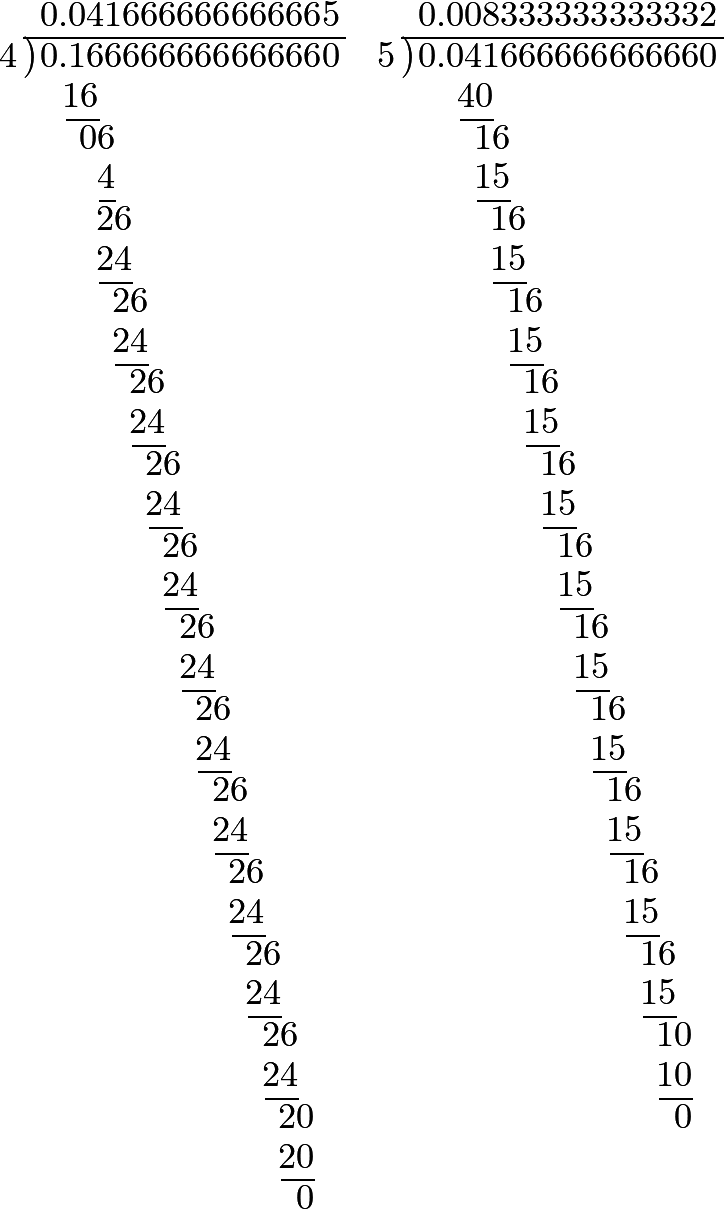
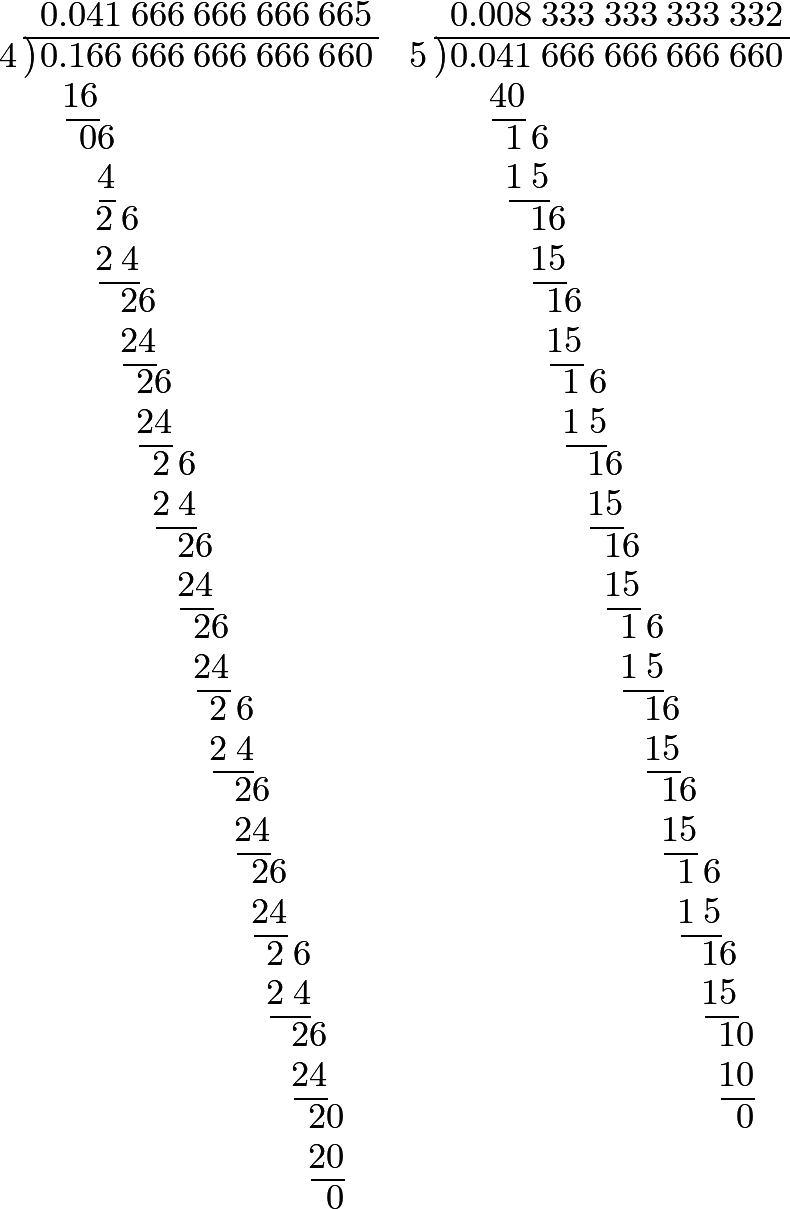
longdivision
separators in work = true, digit group length = 3, digit separator = {\:}

Changed region(s): [[0.5166, 0.0, 1.0, 0.9181], [0.0, 0.0, 0.4862, 0.4285], [0.2431, 0.4285, 0.4558, 1.0]]

diff --git a/_euler/.ipynb_checkpoints/euler-algebra-III-12-checkpoint.md b/_euler/.ipynb_checkpoints/euler-algebra-III-12-checkpoint.md
@@ -259,15 +259,15 @@ $$\dfrac{1}{1\cdot 2\cdot 3\cdot 4\cdot 5\cdot 6\cdot 7\cdot 8\cdot 9\cdot 10},$
 to a decimal. The operation would be as follows:
 
 <a href="https://artofproblemsolving.com/texer/eqzaigab">
-<img src="/assets/euler/eqzaigab.png" alt="Dividing by 2 then by 3" width="494" height="907" style="display:block;margin-left:auto;margin-right:auto;">
+<img src="/assets/euler/eqzaigab.png" alt="Dividing by 2 then by 3" width="547" height="907" style="display:block;margin-left:auto;margin-right:auto;">
 </a>
 
 <a href="https://artofproblemsolving.com/texer/bctsglel">
-<img src="/assets/euler/bctsglel.png" alt="Dividing by 4 then by 5" width="507" height="846" style="display:block;margin-left:auto;margin-right:auto;">
+<img src="/assets/euler/bctsglel.png" alt="Dividing by 4 then by 5" width="553" height="846" style="display:block;margin-left:auto;margin-right:auto;">
 </a>
 
 <a href="https://artofproblemsolving.com/texer/hjfwyspf">
-<img src="/assets/euler/hjfwyspf.png" alt="Dividing by 6 then by 7" width="584" height="1021" style="display:block;margin-left:auto;margin-right:auto;">
+<img src="/assets/euler/hjfwyspf.png" alt="Dividing by 6 then by 7" width="554" height="875" style="display:block;margin-left:auto;margin-right:auto;">
 </a>
 
 <a href="https://artofproblemsolving.com/texer/rclecfes">

diff --git a/_euler/euler-algebra-III-12.md b/_euler/euler-algebra-III-12.md
@@ -259,15 +259,15 @@ $$\dfrac{1}{1\cdot 2\cdot 3\cdot 4\cdot 5\cdot 6\cdot 7\cdot 8\cdot 9\cdot 10},$
 to a decimal. The operation would be as follows:
 
 <a href="https://artofproblemsolving.com/texer/eqzaigab">
-<img src="/assets/euler/eqzaigab.png" alt="Dividing by 2 then by 3" width="494" height="907" style="display:block;margin-left:auto;margin-right:auto;">
+<img src="/assets/euler/eqzaigab.png" alt="Dividing by 2 then by 3" width="547" height="907" style="display:block;margin-left:auto;margin-right:auto;">
 </a>
 
 <a href="https://artofproblemsolving.com/texer/bctsglel">
-<img src="/assets/euler/bctsglel.png" alt="Dividing by 4 then by 5" width="507" height="846" style="display:block;margin-left:auto;margin-right:auto;">
+<img src="/assets/euler/bctsglel.png" alt="Dividing by 4 then by 5" width="553" height="846" style="display:block;margin-left:auto;margin-right:auto;">
 </a>
 
 <a href="https://artofproblemsolving.com/texer/hjfwyspf">
-<img src="/assets/euler/hjfwyspf.png" alt="Dividing by 6 then by 7" width="584" height="1021" style="display:block;margin-left:auto;margin-right:auto;">
+<img src="/assets/euler/hjfwyspf.png" alt="Dividing by 6 then by 7" width="554" height="875" style="display:block;margin-left:auto;margin-right:auto;">
 </a>
 
 <a href="https://artofproblemsolving.com/texer/rclecfes">
